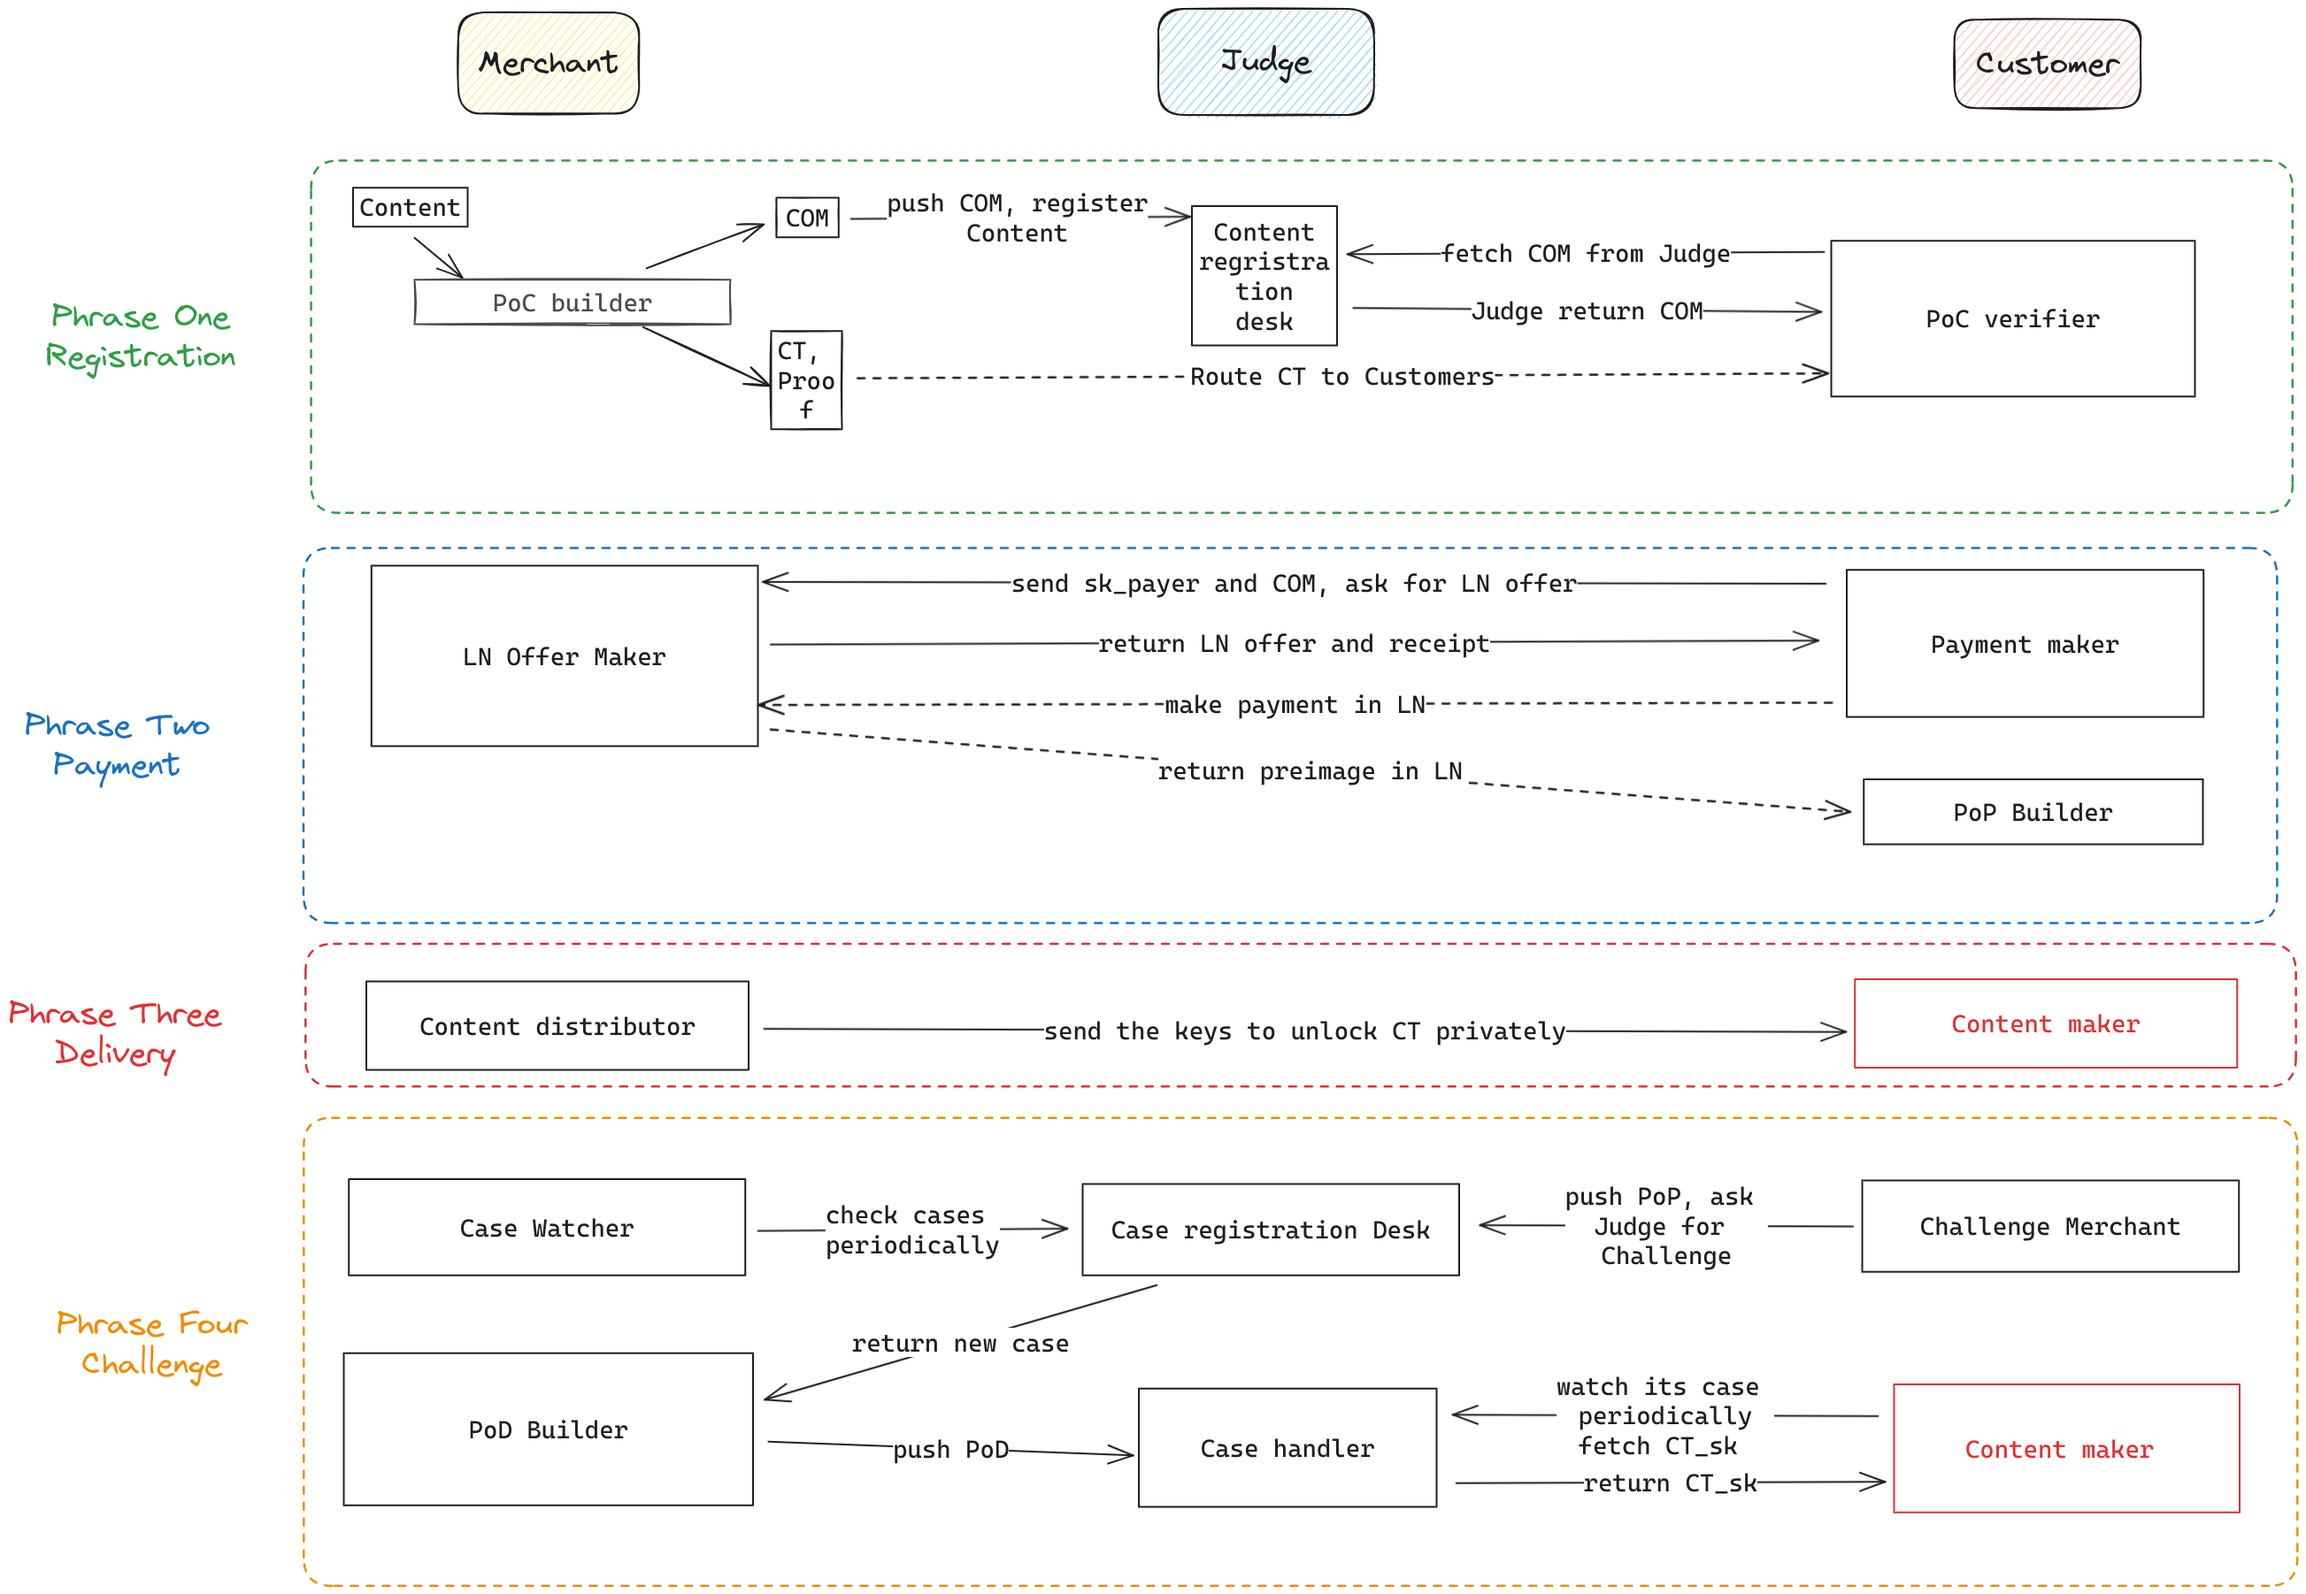
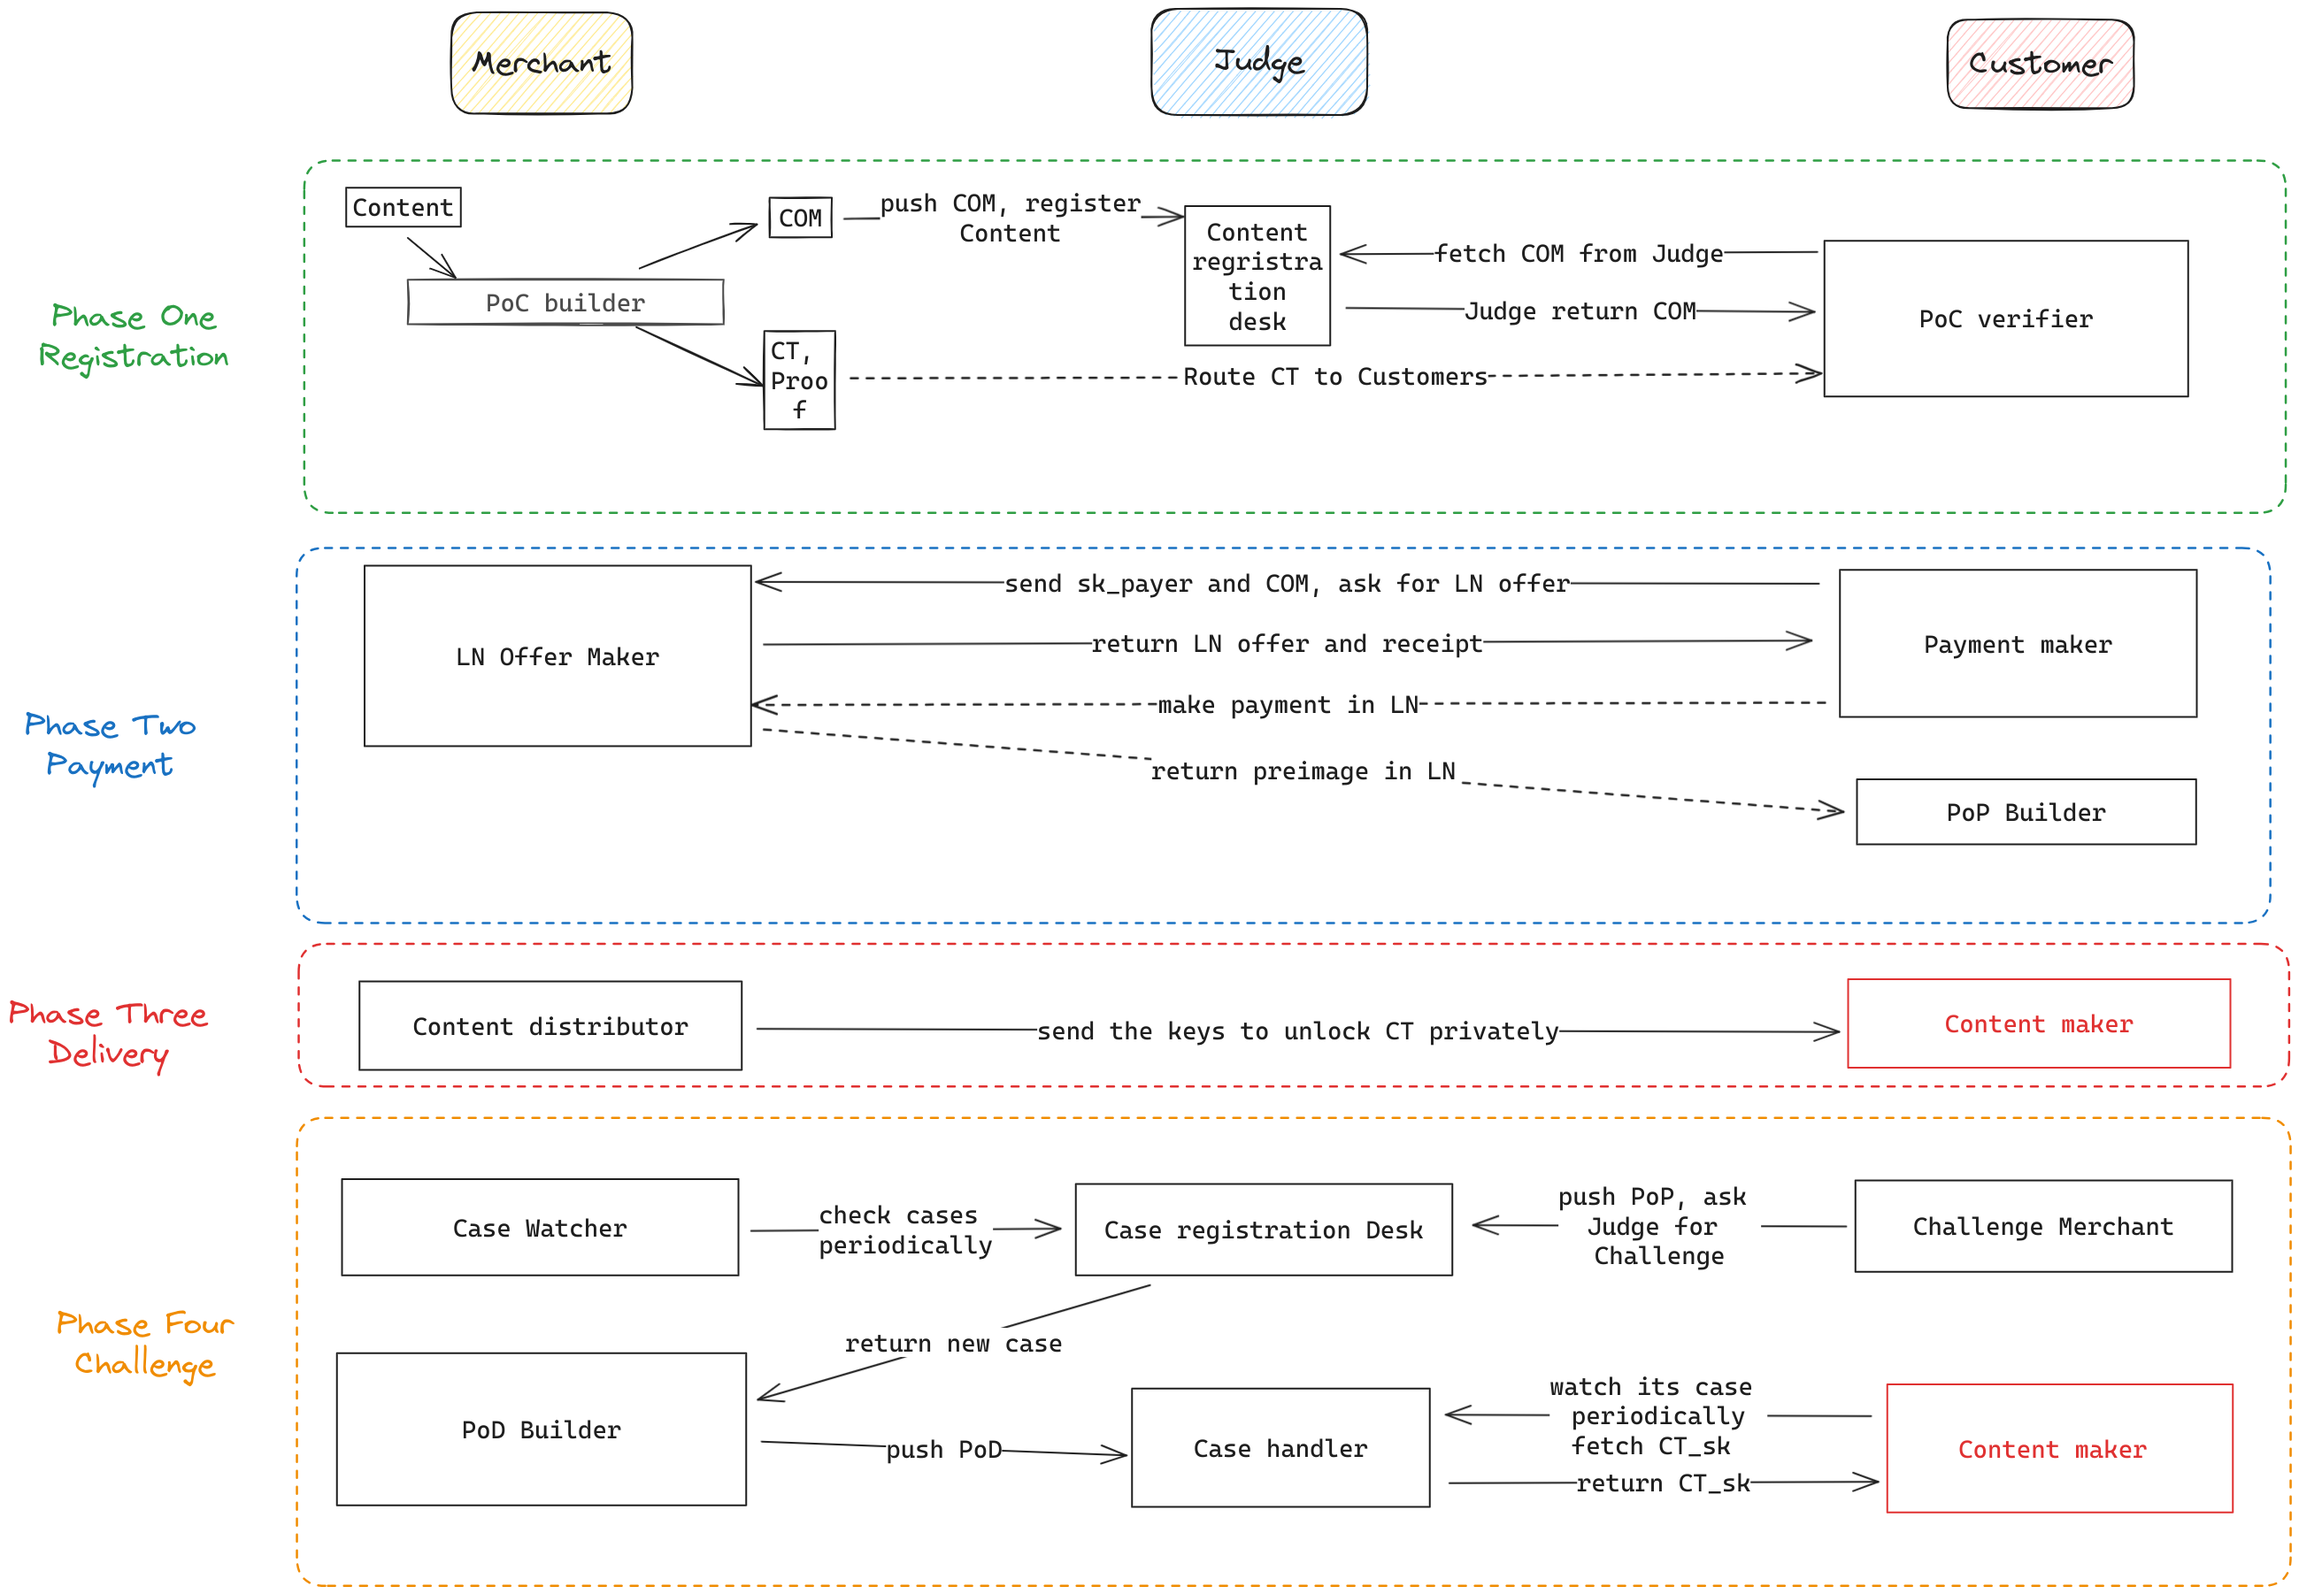
doc:update whitepaper

diff --git a/doc/design.md b/doc/design.md
@@ -1,10 +1,26 @@
-# Design of Atomic Buy 
+# Atomic Buy 
 
-Atom store: a framework that make the digital content purchase atomic
-- O(1) cost to secure each content, nomatter how many people have bought this product. 
-- No extra cost for a deal when there is no conflict. 
+Atom Buy: a decentralized paid content distribution service that make the digital content purchase on the Lightning Network atomic and trustless. We propose a purchase scheme which make every digital content accoutable and every digital content purchase atomic and verifable using various cryptography primitives(ZKP, Encryption, Signature...). Then we using blockchain technology protect every purchase and detect the misbehavior.  
+
+## Introduction 
+
+### Problem we want to solve
+In the landscape of paid content distribution, both centralized content platforms and independent distribution by content creators present distinct challenges.
+
+The drawbacks of using centralized platforms for paid content sharing — such as academic paper repositories, knowledge paywalls, and sites like OnlyFans — are significant and multifaceted:
+
+- **Trust and Dependency on the Platform**: Content creators (merchants) are forced to place their trust in these platforms, which pose a risk of content leakage. Meanwhile, platforms retain control over the content and users' data, limiting creators' direct relationship with their audience and complicating efforts to move to other distribution methods or platforms.
+- **Censorship**: Centralized platforms have the authority to censor content and users, which can be based on a variety of factors, often opaque and outside the control of the content creators and consumers. This can lead to a suppression of freedom of expression and access to information.
+- **Fees and Revenue Sharing**: These platforms often take a substantial cut of the creators' earnings, which can greatly reduce the profit margin for the creators. 
+
+In contrast, independent distribution methods that creators might use, like mailing lists or personal websites, have their own set of challenges: **Trust and Verification**: Without the reputation and the protection of a known platform, creators must build trust with their audience from scratch. Consumers might be hesitant to purchase from an unknown source without the assurance of quality and delivery.
+
+### What we wants to build
+
+To address the problems above, we propose a decentralized paid content distribution(DPCD) framework and implementataion a DPCD framework based on EVM, Lightning Network and Nostr. 
 
 ## Primitives 
+
 
 ### Ciminion
 
@@ -42,7 +58,7 @@ Atom store: a framework that make the digital content purchase atomic
 We define a set of secret key `sk = [master key 1, master key 2, nonce, IV]`, and we denote alice's `sk` as `sk_alice`. 
 
 ### Poseidon Hash 
-A zk-friendly hash function.                                                                                                                                                        
+A zk-friendly hash function.                                                                                                                                   ### Lightning network                
 
 ## Terminology 
 
@@ -50,7 +66,7 @@ Important terminology to understand the system.
 
 ### Judge
 
-A trusted programmable thrid party, like Ethereum, Arbitrum or any other L2s. 
+`Judge` is a accountable and verifable third party, which is secured by a blockchain L1/L2, or it can be a L1.
 
 ### Content Commitment 
 
@@ -73,12 +89,12 @@ We can proof this claim using any zk-prove system like Groth16, KZG-Plonk, etc. 
 
 Anyone can verify the ciphertext of content `CT` by querying the `COM` from the `Judge` and verifying `POC`. 
 
-### Proof of Payment 
+### Proof of Purchase
 Every payee and payer has its own reusable ECDSA key pairs `k = (esk, epk)`. 
-The proof of payment claim that "I have payed for content `C`".
+The proof of purchase claim that "I have paid enough money for content `C`".
 In lightning network, a payment is finished when a sha256 hash `h`'s preimage revealed to the payer. 
 
-The proof of payment `PoP` consists of two following parts: 
+The proof of Purchase `PoP` consists of two following parts: 
 - `Receipt`: 
     - `h_payer = poseidon_hash(sk_payer)`: the ciminion secret key of buyers 
     - `h` : the sha256 hash of a preimage 
@@ -107,31 +123,34 @@ Anyone can verify the `PoD` by querying `h_payer, COM` from the the `Judge`.
 
 ## Design Abstract 
 
-The goal of this project is to make the digital content purchase trustless and minimize the cost to achieve trustless. We achieve this by simulating the traditional Web2 e-store platform scenario, where merchant need to deposit some money when they wants to open a store in the platform like Amazon and Taobao, and the customer can ask the platform to decide whether the merchant have some misbehavior when they think they has been treated unfairly. 
 
-In our trustless implementation, the "platfrom" is replaced by a blockchain L1 or L2(denoted as `Judge`), which provides transparent and trustless computation. Like the traditional e-commerce platform, merchant need to deposit something on `Judge`, which make merchant accountable when they doing wrong. 
+
+![structure](./trans.png)
+
+Atomic Buy is inspired by the scenario of a traditional Web2 e-commerce platform, where merchants are required to deposit funds as a form of security when they wish to open a store on platforms like Amazon or Taobao. If customers feel they have been treated unfairly, they can request the platform to adjudicate any alleged misconduct by the merchant.
+
+In our trustless and decentralized model, the "platform"'s Job is substituted by three components: **content relay network**, **payment network** and **Judge**. 
+
+**Content relay network** will become the comminication layer between merchants and customers, distributing content infomation from merchants to customers. Depending on the usecase, we could use different relay network. For example, to build the decentralized vertsion of Onlyfans, Medium, we could use relay network like Nostr, which provides async routine service for both public and private message in a decentralized manner. If we want build a decentralized academic database, We could use service like Arweave, IPFS as the content storage, and any other message service for private commuication between merchants(content creators) and customers. 
+
+**Payment network** is where users pay some cryptocurrency to the merchants, and generate a veriable proof of purchase "I spent x money for product(content) C". The proof of purchase is the primitives for `Judge` settle the arguments between merchants and customers. In our implementation, we use Lightning Network as the payment network, as it can easily settle a `PoP` lighting fast without onchain verification. 
+
+
+**Judge** is a accountable and verifable third party, which is secured by a blockchain L1/L2, or it can be a L1 itself. Similar to a conventional e-commerce platform, merchants are obliged to place a deposit on `Judge`, which holds them accountable in cases of wrongdoing. And `Judge` can detect and punish those who cheat in a content purchase, which make the purchase trustless for customers. 
+
+
+## Basic Workflow 
 
 ![Abstract of the design of atomic buy](./design.png)
 
 
-We seperate the whole process into 4 phrases: 
-- Phrase One: Content Registration. Just like what we do in e-commercial platform merchants need to list the product in their store, n the atomic-buy, merchant need to commit the content and its price on `Judge` , and deposit some funds on `Judge`. This will make the merchant accoutable. Meanwhile, Merchants need to build`PoC` of content. After that, Merchant can distributed the encrypted content and `PoC` in any platform like Twitter or Nostr.  And protencial customer can verity the quality of the content, and they can make sure that the the ciphertex they recieve is aligned with the content commited on `Judge`.  
-- Phrase Two: Make Payment. Thanks to the beauty of LN, a payment proof `PoP`("alice pay `x` sats for content `c` before time `T`") can be built only with merchant and customer. Once the customer get the `PoP`, they can ask `Judge` for customer service when something bad happened. 
-- Phrase Three: Content delivery: Once the merchant believe that the bill has been payment, it need to delivery the key that can unlocked the ciphertext asap to the customer in any message routine platform. 
-- Phrase Four: challenge. The goal of challenge is to make sure the keys must be delivered to customer through `Judge`. Merchant need to build a `PoD` to prove the keys. If the Merchant can not provide `PoD` in time, the `Judge` will fine the merchant and conpensate the customer. 
-
-## Security Model 
+We seperate the whole process into 4 phases: 
+- Phase One: Content Registration. Merchants must register their content and its price on `Judge``, along with depositing some funds. This holds the merchants accountable. Additionally, merchants are required to create a Proof of Content (PoC) for the content. Subsequently, merchants can distribute the encrypted content and `PoC` on any platform such as Twitter or Nostr. Potential customers can then verify the content's quality and ensure that the ciphertext they receive corresponds with the content committed on Judge.
+- Phase Two: Payment. Leveraging the advantages of the Lightning Network (LN), a payment proof PoP ("alice pays x satoshis for content `c` before time `T`") can be established solely between the merchant and customer. Should any issues arise, the customer can present the `PoP` to Judge for resolution.
+- Phase Three: Content delivery: Once the merchant believe that the bill has been payment, it need to delivery the key that can unlocked the ciphertext asap to the customer in any message routine platform. 
+- Phase Four:  Challenge. The challenge phase ensures that keys are delivered to the customer via Judge. Merchants are required to construct a Proof of Delivery (PoD) to verify the delivery of keys. Failure to provide a `PoD` within the stipulated timeframe results in penalties imposed by Judge on the merchant and compensation awarded to the customer.
 
 
-## Attacks 
-
-## 
-
-## Implementation 
-
-## Cost 
-
-## Roadmap 
 
 
 

diff --git a/doc/todo.md b/doc/todo.md
@@ -1,0 +1,12 @@
+## Security Model 
+
+
+## Attacks 
+
+## 
+
+## Implementation 
+
+## Cost 
+
+## Roadmap 
